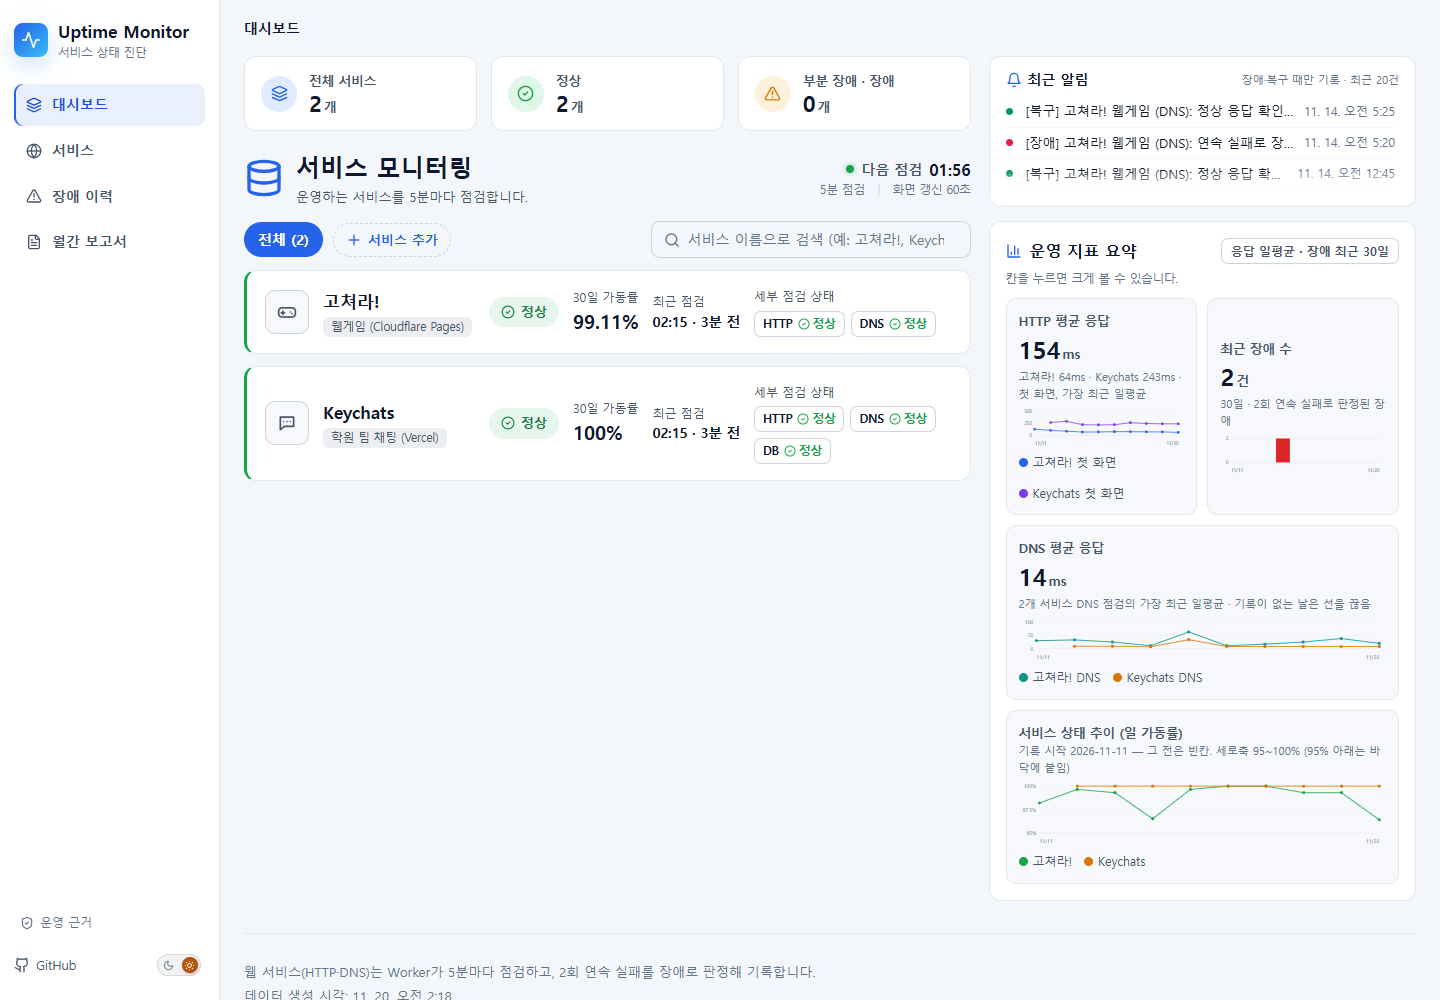
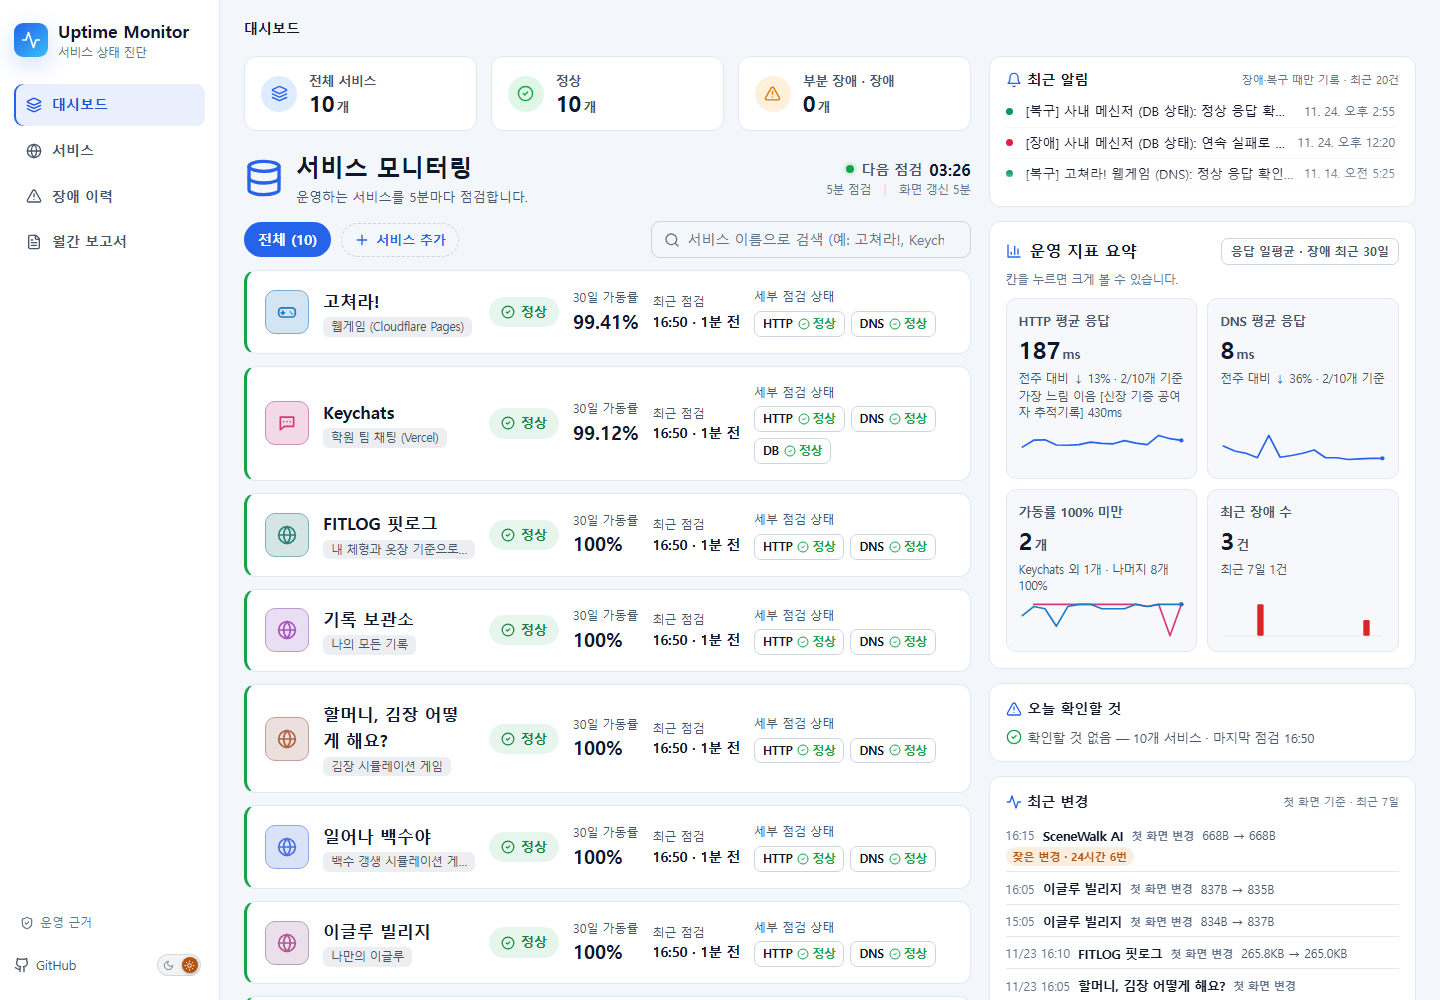
docs(screenshots): README 스크린샷을 서비스 10개 라이브 화면으로 교체 — 주간 보고서·데이터 보존 정책 추가
- 8장 교체: 대시보드 어두운·밝은·390px, 운영 지표 팝업, 서비스 추가 팝업, 서비스 페이지(점검 21개), Keychats 상세, 11월 보고서
- 2장 추가: 서비스 주간 점검 보고서, 운영 근거 '데이터 보존 정책'
- 장애 #41 훈련 화면 2장은 유지, 동료 서비스 이름은 사용자 허락으로 그대로
- README 화면 절 날짜·설명, 오래된 '서비스 2개일 때 찍은 것' 문장 제거, CLAUDE.md 기록

diff --git a/README.md b/README.md
@@ -33,23 +33,27 @@
 
 ## 화면
 
-라이브 사이트의 실제 점검 기록으로 찍었습니다 (2026-11-20, 1440px · 휴대폰은 390px).
+라이브 사이트의 실제 점검 기록으로 찍었습니다 (2026-11-25, 서비스 10개, 1440px · 휴대폰은 390px). 동료 서비스 이름은 사용자가 공개를 허락해 그대로 두었습니다.
 
 | 대시보드 (어두운 화면, 기본) | 대시보드 (밝은 화면) |
 |---|---|
-| ![대시보드, 어두운 화면: 요약 3칸, 서비스 줄, 최근 알림, 운영 지표](docs/screenshots/dashboard-dark.png) | ![대시보드, 밝은 화면](docs/screenshots/dashboard-light.png) |
+| ![대시보드, 어두운 화면: 요약 3칸, 서비스 줄 10개, 최근 알림, 운영 지표 숫자 타일, 오늘 확인할 것, 최근 변경](docs/screenshots/dashboard-dark.png) | ![대시보드, 밝은 화면](docs/screenshots/dashboard-light.png) |
 
 | 서비스 상세 (Keychats) | 서비스 페이지: 점검별 카드 |
 |---|---|
-| ![서비스 상세: 지표 4칸, 점검별 24시간 응답 선·15분 성공/실패 칸·30일 막대](docs/screenshots/service-detail.png) | ![서비스 페이지: 점검 5개 카드와 30일 막대](docs/screenshots/services.png) |
+| ![서비스 상세: 지표 4칸, 점검별 24시간 응답 선·15분 성공/실패 칸·30일 막대](docs/screenshots/service-detail.png) | ![서비스 페이지: 점검 21개 카드와 30일 막대](docs/screenshots/services.png) |
 
-| 서비스 추가 팝업 (빈 입력칸) | 운영 지표 확대 팝업 |
+| 서비스 추가 팝업 (빈 입력칸) | 운영 지표 확대 팝업 (HTTP 평균 응답 · 겹쳐 보기) |
 |---|---|
-| ![서비스 추가 팝업: 주소·상태 확인 주소·운영자 동의·관리자 토큰](docs/screenshots/add-service.png) | ![운영 지표 확대: 서비스별 일 가동률](docs/screenshots/metric-zoom.png) |
+| ![서비스 추가 팝업: 주소·상태 확인 주소·운영자 동의·관리자 토큰](docs/screenshots/add-service.png) | ![운영 지표 확대: 서비스 10개 일평균 응답 선과 범례 버튼, 순위·서비스별 탭](docs/screenshots/metric-zoom.png) |
 
 | 휴대폰 (390px) | 월간 가용성 보고서 |
 |---|---|
 | ![휴대폰 화면의 대시보드](docs/screenshots/dashboard-mobile.png) | ![2026년 11월 가용성 보고서: 대상별 가동률·SLA·에러 버짓](docs/screenshots/report-monthly.png) |
+
+| 서비스 주간 점검 보고서 (Keychats, 11-16~22) | 운영 근거: 데이터 보존 정책 |
+|---|---|
+| ![주간 점검 보고서: 판정·가동률·장애·배포 4칸, 점검별 응답 시간, 복사용 텍스트](docs/screenshots/weekly-report.png) | ![데이터 보존 정책: 원본 90일·일별 집계 계속, 마지막 정리 결과](docs/screenshots/evidence-retention.png) |
 
 월간 보고서의 고쳐라! DNS '미달'(99.11%)은 실제 기록입니다(DNS 조회 오류 장애 2건, 각 10분 — 원인은 아직 확인하지 않음).
 
@@ -477,7 +481,7 @@ Invoke-RestMethod -Method Patch -Uri "$b/api/admin/services/<서비스 키>" -He
 - **운영 지표 색의 한계 (2026-11-24):** 서비스 고유색은 서비스 목록 순서대로 배정해서, 서비스를 끄거나 중간에 끼워 넣으면 뒤 서비스의 색이 한 칸씩 밀립니다(색 번호를 DB에 저장하지 않음). 10색이 서로 구별되도록 Lab 거리로 골랐지만(어두운 화면 최소 ΔE 27.8, 밝은 화면 10번을 회색으로 바꾼 뒤 확인) 색각 이상 시뮬레이션은 하지 않았고, 초록·노랑 계열이 섞여 있어 상태색과 헷갈리지 않도록 범례·막대·미니 그래프에 이름을 글자로도 적었습니다(값은 팝업의 순위 막대·미니 그래프에 글자로). 팝업의 겹쳐 보기는 서비스 10개의 선이 겹치고, 한 서비스만 크게 느리면 나머지 선이 바닥에 붙습니다 — 그럴 때는 순위·서비스별 탭으로 봅니다.
 - **운영 지표 타일의 한계 (2026-11-25):** 응답 시간 큰 숫자는 서비스별 최근 일평균의 단순 평균이라 느린 서비스 하나가 끌어올릴 수 있어서 '가장 느림'을 함께 적습니다. 타일의 평균 선은 그날 기록이 있는 서비스만으로 평균을 내므로 서비스가 새로 등록된 날 계단처럼 튈 수 있습니다. 전주 대비는 동료 서비스 8개가 2026-11-24에 등록돼서 약 2주 동안은 고쳐라!·Keychats 2개 기준으로만 계산됩니다. DNS는 값이 수십 ms라 +100ms 조건 때문에 노란 글씨가 사실상 뜨지 않습니다. 장애 '최근 7일'은 장애 이력이 최근 10건까지만 와서 10건이 모두 7일 안이면 '+'를 붙입니다.
 - **오늘 확인할 것·최근 배포의 한계 (2026-11-25):** '점검 끊김' 15분 기준은 Cron이 몇 분 늦는 날 잠깐 뜰 수 있어 실제로 본 뒤 조정합니다(외부 점검 http·dns만, 에이전트 점검은 11단계 무응답 감지가 따로). '직후 장애'는 /api/status의 장애 이력 최근 10건 안에서만 찾습니다. 최근 배포는 서비스당 최근 3건만 가져오므로(24단계, 2026-11-25 — 전에는 전체 20건이라 배포가 잦은 서비스 하나가 목록을 다 차지했음) 한 서비스가 7일에 4번 이상 바뀌면 오래된 변경은 목록에 없고, 횟수는 배지에 정확히 나옵니다. 첫 화면이 바뀐 시각(5분 점검에서 처음 본 회차)이지 배포 시각은 아닙니다. 실제로 한 동료 서비스의 "668B → 668B" 변경은 빌드할 때마다 첫 화면의 스크립트·스타일 파일 이름(해시)만 바뀌는 구조였고, 예전 안내("동적 내용일 수 있음")는 이를 잘못 설명했습니다 → 27단계에서 종류를 구분합니다(아래).
-- **배포와 내용 변경 구분 (27단계, 2026-11-25):** HTML 전체 지문과 따로, 해시가 붙은 스크립트·스타일 파일 이름 목록의 지문(빌드 지문)을 저장합니다(파일 이름 자체는 저장하지 않음). 변경을 확정할 때 빌드 지문이 바뀌었으면 **배포**, HTML만 바뀌었으면 **내용 변경**, 비교할 빌드 지문이 없으면 **구별 불가**입니다. 조사해 보니 실제 서비스 10개 중 **해시 파일이 있는 곳은 3개**(Vite 1, Next.js 2)뿐이라 나머지 7개는 계속 '첫 화면 변경(구별 불가)'으로 나옵니다 — 해시 없는 정적 페이지는 HTML이 바뀌면 대부분 배포겠지만 근거가 없어 단정하지 않습니다. 응답 헤더 `Last-Modified`는 쓰지 않았습니다: Vercel 캐시가 비었을 때 요청한 시각이 그대로 나오고(두 서비스가 요청 시각 06:31:24·06:31:26 UTC), 한 곳은 2018년 날짜, 한 곳은 내용이 그대로인데 값만 바뀌어 있어 배포 시각으로 믿을 수 없었습니다. 첫 화면 HTML과 빌드 파일이 그대로인 배포(서버·API만 바뀜)는 여전히 보이지 않으며, 27단계 전 기록과 적용 직후 첫 변경은 종류를 모릅니다. 위쪽 [화면](#화면)의 대시보드 스크린샷은 서비스 2개일 때 찍은 것이라 새 운영 지표 모양과 다릅니다(다시 찍지 않았습니다).
+- **배포와 내용 변경 구분 (27단계, 2026-11-25):** HTML 전체 지문과 따로, 해시가 붙은 스크립트·스타일 파일 이름 목록의 지문(빌드 지문)을 저장합니다(파일 이름 자체는 저장하지 않음). 변경을 확정할 때 빌드 지문이 바뀌었으면 **배포**, HTML만 바뀌었으면 **내용 변경**, 비교할 빌드 지문이 없으면 **구별 불가**입니다. 조사해 보니 실제 서비스 10개 중 **해시 파일이 있는 곳은 3개**(Vite 1, Next.js 2)뿐이라 나머지 7개는 계속 '첫 화면 변경(구별 불가)'으로 나옵니다 — 해시 없는 정적 페이지는 HTML이 바뀌면 대부분 배포겠지만 근거가 없어 단정하지 않습니다. 응답 헤더 `Last-Modified`는 쓰지 않았습니다: Vercel 캐시가 비었을 때 요청한 시각이 그대로 나오고(두 서비스가 요청 시각 06:31:24·06:31:26 UTC), 한 곳은 2018년 날짜, 한 곳은 내용이 그대로인데 값만 바뀌어 있어 배포 시각으로 믿을 수 없었습니다. 첫 화면 HTML과 빌드 파일이 그대로인 배포(서버·API만 바뀜)는 여전히 보이지 않으며, 27단계 전 기록과 적용 직후 첫 변경은 종류를 모릅니다.
 - **정밀도 5분:** 점검 간격 때문에 감지·복구 시간과 장애 시간은 5분 단위입니다.
 - **Cron 실행 지연:** 실행 시각이 정각보다 몇 초 늦어(실측 12초) 회차 내림으로 보정했습니다. 5분 넘게 늦으면 다음 회차로 묶입니다.
 - **로컬 Worker 실행:** 개발 초기에는 Windows 스마트 앱 컨트롤이 `workerd.exe`를 차단해 `wrangler dev`를 쓰지 못했고, 그래서 D1과 같은 SQLite(Node 내장)에 실제 마이그레이션을 적용한 가짜 D1로 Cron·API 흐름 전체를 테스트했습니다. 2026-11-19에는 `wrangler dev`가 실행되어 로컬 화면 확인에 썼습니다(무엇이 바뀌어 실행되는지는 확인하지 않았습니다).

diff --git a/CLAUDE.md b/CLAUDE.md
@@ -246,3 +246,5 @@
    - 확인: node --test 502개 통과(새 7개 + 기존 문구·필드 테스트 수정). 가짜 D1 화면: 카드 '최근 변경' 줄마다 종류·'배포 잦음 · 24시간 6번'(설명 '최근 7일 배포 11번')·직후 장애 유지, 서비스 상세 '배포' 구분, 콘솔 오류 없음
    - 순서 주의: 0021 원격 적용 먼저, 배포는 그 뒤. 라이브에서 종류가 붙는 것은 배포 뒤 해시 파일이 있는 3개 서비스가 다음에 배포할 때부터
    - 라이브(2026-11-25 배포, 0021만 미적용이었음): 카드 제목 '최근 변경', 기존 변경은 모두 kind unknown('첫 화면 변경'), changeCounts에 deployDay·deployWeek, 콘솔 오류 없음. 배포가 잦은 동료 서비스는 아직 '잦은 변경 · 24시간 6번'(다음 배포부터 '배포')
+   - README 스크린샷 교체 (2026-11-25, 커밋 전): 라이브 화면 10장(대시보드 어두운·밝은·390px, 운영 지표 팝업, 서비스 추가 팝업, 서비스 페이지 점검 21개, Keychats 상세, 11월 보고서, 새로 주간 보고서·운영 근거 보존 정책).
+     Edge 헤드리스 + DevTools 프로토콜로 찍음(팝업은 열고 찍음, 스크립트는 프로젝트 밖). 동료 서비스 이름은 사용자가 공개를 허락해 그대로 둠. 장애 #41 훈련 화면 2장은 유지
